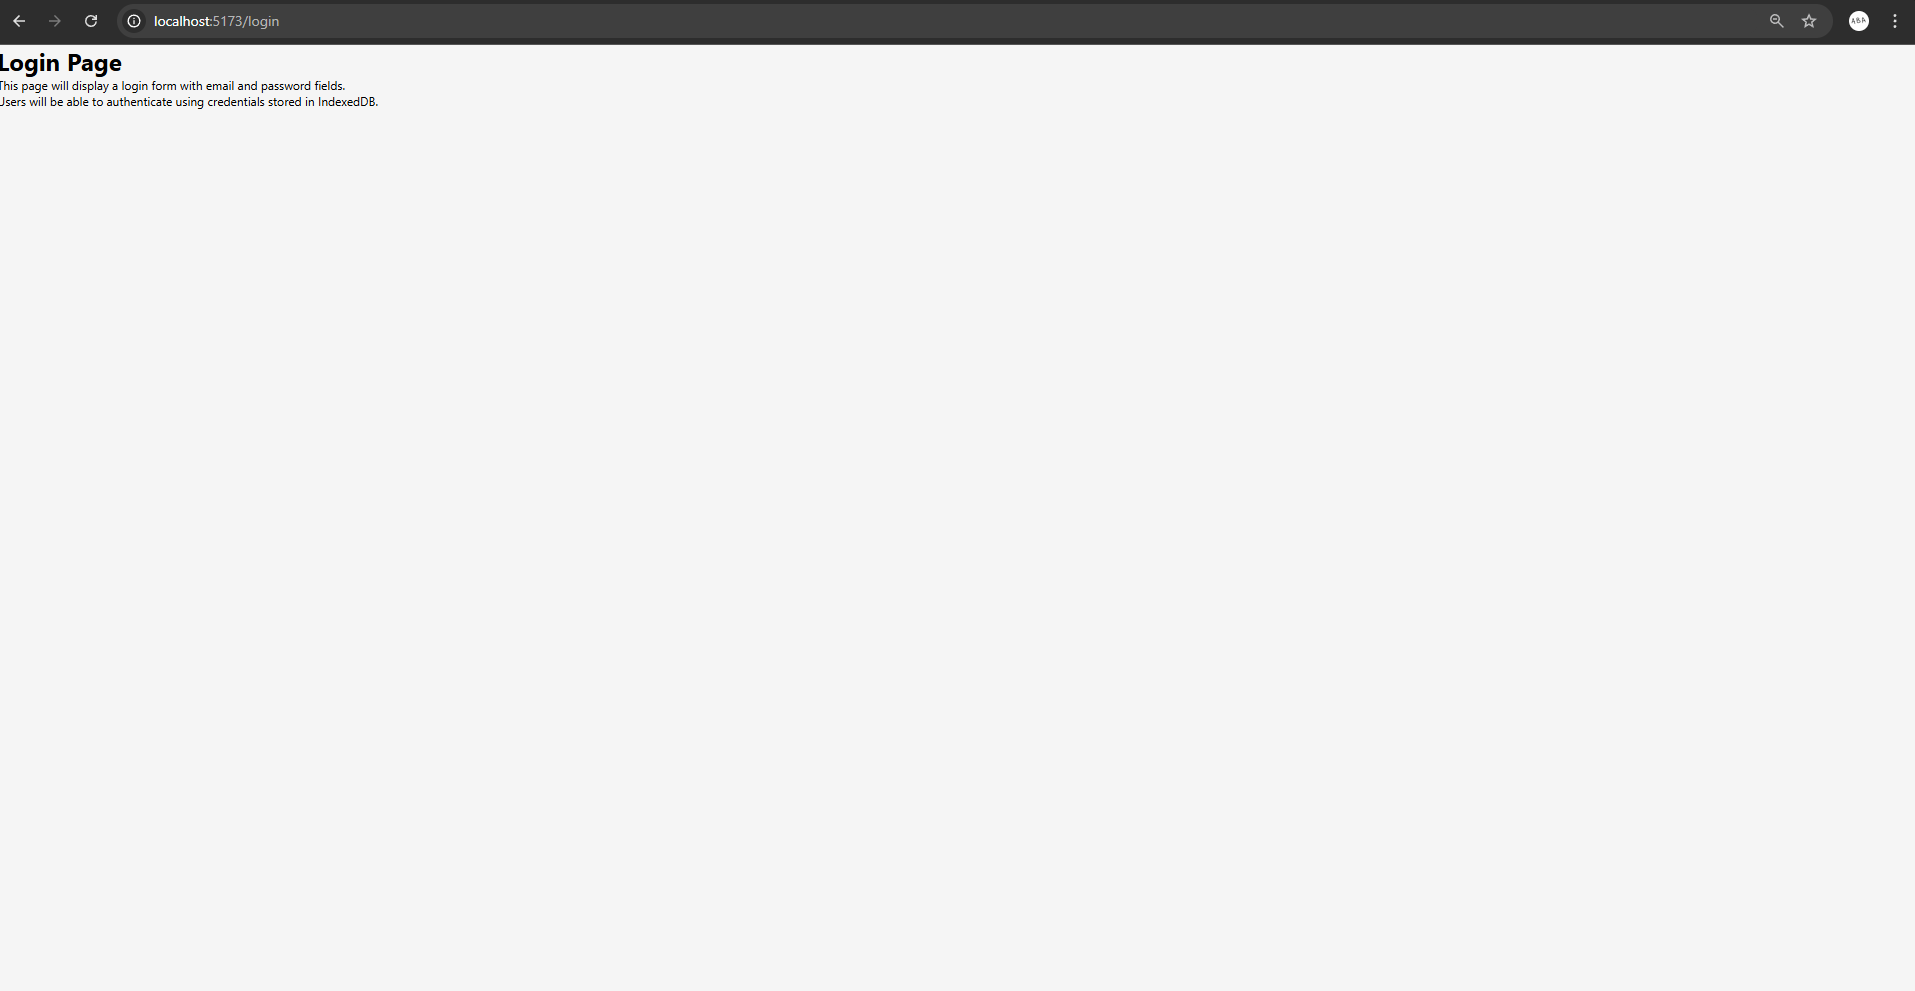
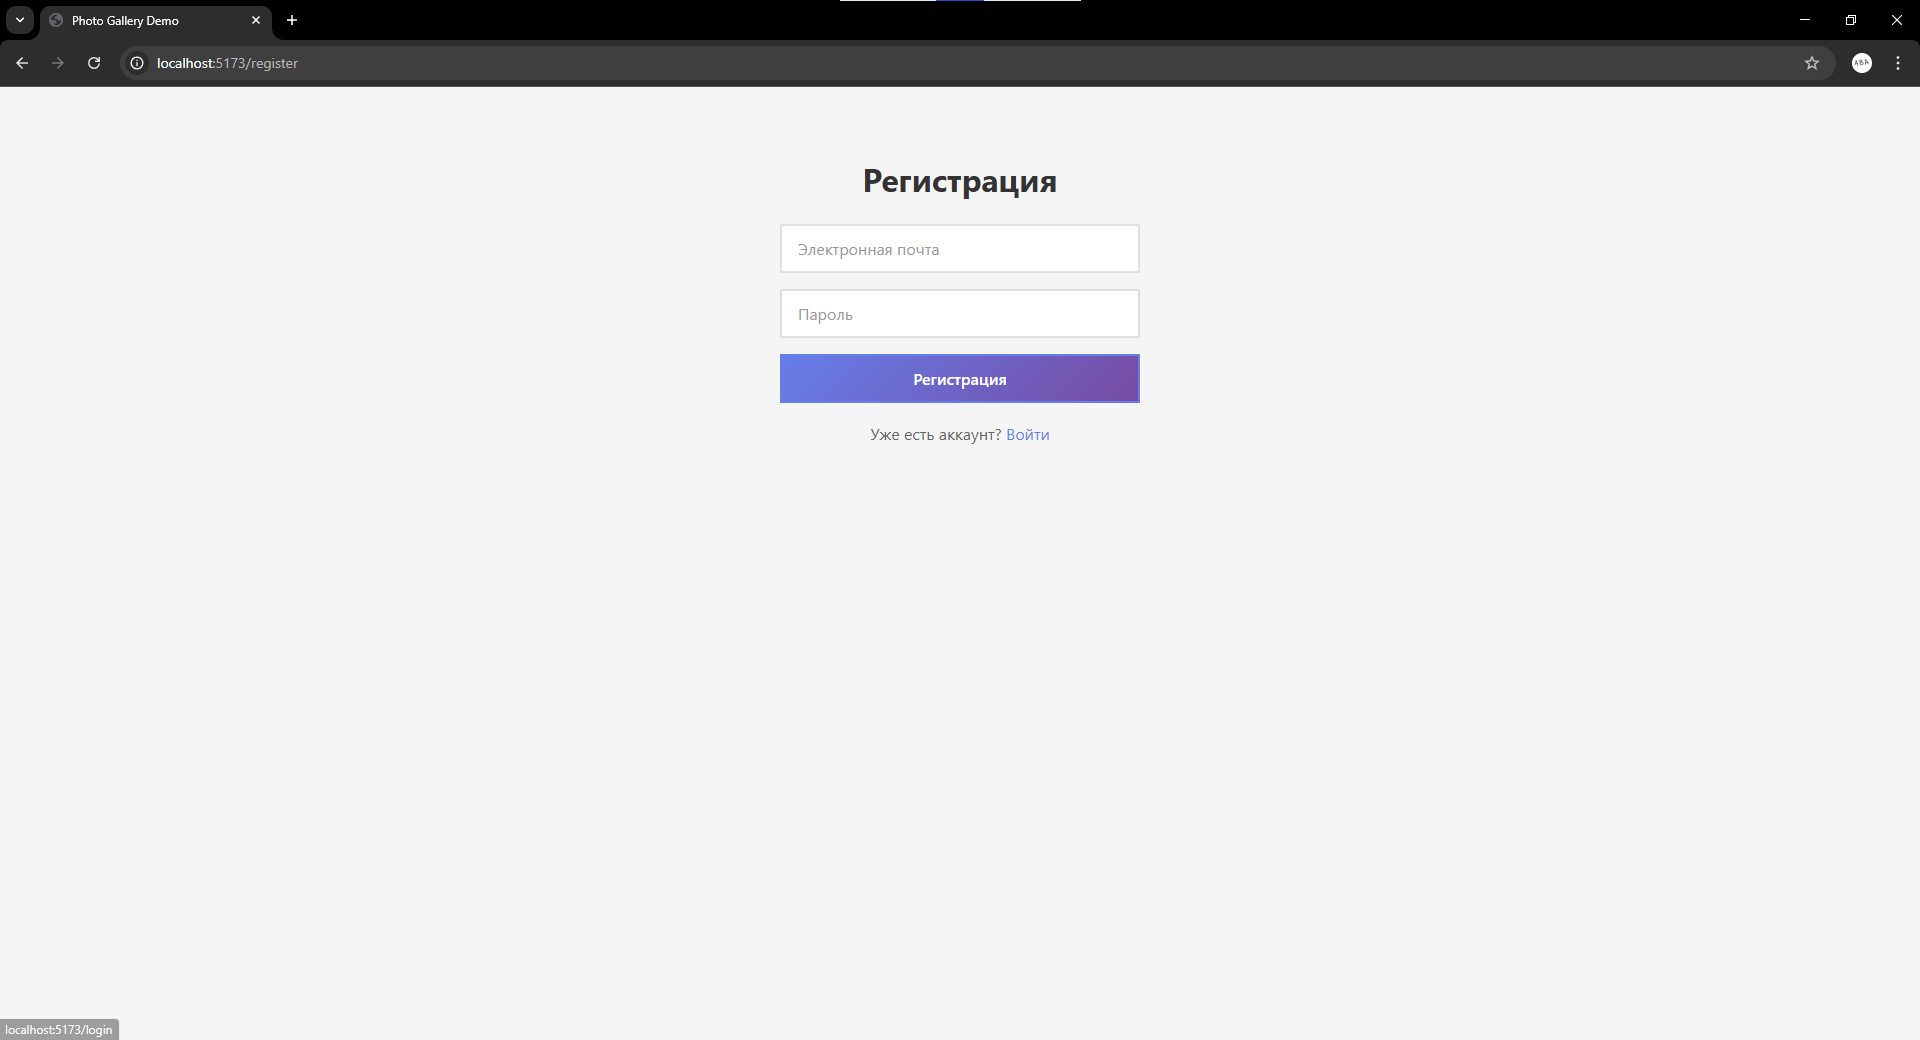
modified READMe

diff --git a/README.md b/README.md
@@ -16,28 +16,6 @@ Photo Hosting - это современное веб-приложение для
 - **Управление изображениями** - просмотр метаданных и удаление фотографий
 - **Защищенные маршруты** - доступ к функциям только для авторизованных пользователей
 
-### Технологии
-
-- **React 19** - UI фреймворк
-- **TypeScript** - типизация
-- **React Router DOM** - маршрутизация
-- **Dexie.js** - работа с IndexedDB
-- **Web Crypto API** - безопасное хеширование паролей
-- **Vite** - сборщик модулей
-- **Jest** + **Testing Library** - тестирование
-- **ESLint** - линтинг кода
-
-### Архитектура
-
-Проект следует принципам чистой архитектуры:
-- **Services** - бизнес-логика (auth, image management)
-- **Context** - глобальное состояние сессии
-- **Components** - переиспользуемые компоненты
-- **Pages** - страницы приложения
-- **Utils** - вспомогательные функции
-
-Данные хранятся локально в IndexedDB без необходимости в backend сервере.
-
 ## Запуск приложения
 
 ### Установка зависимостей
@@ -64,48 +42,6 @@ cd ../frontend
 npm run dev
 ```
 
-Приложение будет доступно по адресу http://localhost:5173
-
-### Production сборка
-
-```bash
-# Сборка UI библиотеки
-cd ui
-npm run build
-
-# Сборка Frontend
-cd ../frontend
-npm run build
-```
-
-## Дополнительные команды
-
-### Линтинг
-
-```bash
-# В каждом проекте (ui и frontend)
-npm run lint          # Проверка кода
-npm run lint:fix      # Автоматическое исправление
-```
-
-### Тестирование
-
-```bash
-# В каждом проекте (ui и frontend)
-npm run test              # Запуск тестов
-npm run test:coverage     # Тесты с покрытием
-npm run test:watch        # Тесты в watch режиме
-```
-
-### Coverage UI библиотеки
-
-UI библиотека имеет 100% покрытие тестами:
-- Button - 100%
-- Input - 100%
-- Form - 100%
-- Gallery - 100%
-- PhotoCard - 100%
-
 ## Использование приложения
 
 ### 1. Регистрация
@@ -121,45 +57,18 @@ UI библиотека имеет 100% покрытие тестами:
 
 ### 3. Просмотр галереи
 - Все ваши изображения отображаются в адаптивной сетке
-- Для каждого изображения показаны метаданные (имя файла, дата загрузки, автор)
+- Для каждого изображения показаны метаданные (имя файла, дата загрузки, автор, разрешение файла, размер файла)
 - Нажмите "Удалить" для удаления изображения
 
 ### 4. Выход
 - Нажмите кнопку "Logout" в навигационном меню
 
-## Структура проекта
-
-```
-photo-hosting/
-├── frontend/              # Основное приложение
-│   ├── src/
-│   │   ├── components/   # Компоненты
-│   │   ├── context/      # React Context
-│   │   ├── db/           # IndexedDB настройка
-│   │   ├── pages/        # Страницы приложения
-│   │   ├── router/       # Роутинг
-│   │   ├── services/     # Бизнес-логика
-│   │   └── utils/        # Утилиты
-│   └── package.json
-│
-└── ui/                    # UI библиотека
-    ├── src/
-    │   ├── Button/
-    │   ├── Form/
-    │   ├── Gallery/
-    │   ├── Input/
-    │   └── PhotoCard/
-    └── package.json
-```
-
 ## Скриншоты приложения
 
-![Главная страница](./README-imgs/image.png)
+![Страница входа](./README-imgs/image.png)
 
-![Страница входа](./README-imgs/image-1.png)
+![Страница регистрации](./README-imgs/image-1.png)
 
-![Страница регистрации](./README-imgs/image-2.png)
+![Страница галереи](./README-imgs/image-2.png)
 
-## Лицензия
-
-MIT
+![Страница загрузки изображения](./README-imgs/image-3.png)
